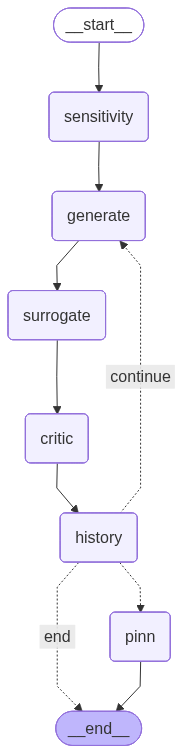
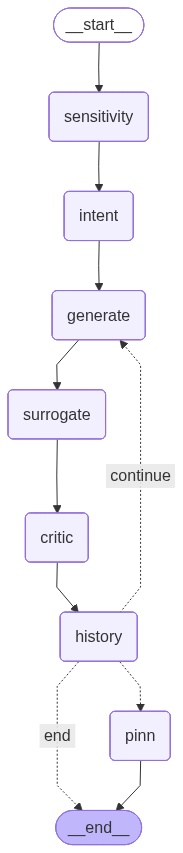
added new agents

diff --git a/NEW_PINN_LLM_SUR/LLM_epiparam_generator/agents/DeterministicCriticAgent.py b/NEW_PINN_LLM_SUR/LLM_epiparam_generator/agents/DeterministicCriticAgent.py
@@ -25,6 +25,8 @@ class DeterministicCriticAgent:
         log_format: str = "json",
         position_threshold: float = 0.0,
         height_threshold_relative: float = 0.0,
+        position_tolerance: float = 5.0,
+        height_tolerance_relative: float = 0.05,
     ):
         self.llm_client = llm if isinstance(llm, BaseLLMClient) else None
         self.llm = llm
@@ -40,6 +42,8 @@ class DeterministicCriticAgent:
         
         self.intent_parser = PydanticOutputParser(pydantic_object=ExpertIntent)
         self.intent_prompt = self._create_intent_prompt()
+        self.position_tolerance = position_tolerance
+        self.height_tolerance_relative = height_tolerance_relative
     
     def _create_intent_prompt(self) -> ChatPromptTemplate:
         """Universal prompt: extract expected peak change from ANY comment."""
@@ -89,8 +93,13 @@ Return ONLY valid JSON."""),
             ok = change < 0 and is_significant
             desc = f"moved earlier: {baseline:.1f} → {new:.1f}" if ok else f"expected earlier, but moved {new:.1f}"
         else:  # unchanged
-            ok = not is_significant
-            desc = f"remained stable: {baseline:.1f} → {new:.1f}" if ok else f"changed unexpectedly: {baseline:.1f} → {new:.1f}"
+            # ✅ Толерантность: ±position_tolerance дней считается "unchanged"
+            within_tolerance = abs(change) <= self.position_tolerance
+            ok = within_tolerance
+            if within_tolerance:
+                desc = f"remained stable: {baseline:.1f} → {new:.1f} (Δ={change:+.1f} within ±{self.position_tolerance})"
+            else:
+                desc = f"changed unexpectedly: {baseline:.1f} → {new:.1f} (Δ={change:+.1f} > ±{self.position_tolerance})"
         
         return {"ok": ok, "description": desc, "change": change, "is_significant": is_significant}
     
@@ -110,8 +119,13 @@ Return ONLY valid JSON."""),
             ok = change < 0 and is_significant
             desc = f"decreased: {baseline:.0f} → {new:.0f}" if ok else f"expected lower, but got {new:.0f}"
         else:  # unchanged
-            ok = not is_significant
-            desc = f"remained stable: {baseline:.0f} → {new:.0f}" if ok else f"changed unexpectedly: {baseline:.0f} → {new:.0f}"
+            # ✅ Толерантность: ±height_tolerance_relative считается "unchanged"
+            within_tolerance = relative_change <= self.height_tolerance_relative
+            ok = within_tolerance
+            if within_tolerance:
+                desc = f"remained stable: {baseline:.0f} → {new:.0f} ({relative_change*100:.1f}% within ±{self.height_tolerance_relative*100:.0f}%)"
+            else:
+                desc = f"changed unexpectedly: {baseline:.0f} → {new:.0f} ({relative_change*100:.1f}% > ±{self.height_tolerance_relative*100:.0f}%)"
         
         return {"ok": ok, "description": desc, "change": change, "is_significant": is_significant}
     
@@ -200,7 +214,9 @@ Return ONLY valid JSON."""),
         baseline_episode: Episode,
         new_params: Dict,
         new_results: Dict,
-        expert_comment: str
+        expert_comment: str,
+        position_expected: str = None,    
+        height_expected: str = None       
     ) -> Episode:
         print("=" * 60)
         print("🔍 CRITIC AGENT")
@@ -215,11 +231,17 @@ Return ONLY valid JSON."""),
         print(f"📊 New:      peak={new_peak:.1f}, height={new_height:.0f}")
         print(f"💬 Expert:   {expert_comment}")
         
-        # Парсим ожидания
-        print("\n🔍 Analyzing expected peak change...")
-        intent = self._parse_intent(expert_comment)
-        pos_exp = intent["position_expected"]
-        height_exp = intent["height_expected"]
+        # ✅ Используем переданные ожидания, если есть; иначе парсим
+        if position_expected is not None and height_expected is not None:
+            pos_exp = position_expected
+            height_exp = height_expected
+            print(f"\n📍 Using pre-parsed expectations (from IntentParser):")
+        else:
+            print("\n🔍 Analyzing expected peak change...")
+            intent = self._parse_intent(expert_comment)
+            pos_exp = intent["position_expected"]
+            height_exp = intent["height_expected"]
+        
         print(f"   Expected position: {pos_exp}")
         print(f"   Expected height:   {height_exp}")
         
@@ -267,11 +289,18 @@ Return ONLY valid JSON."""),
             if baseline_episode is None:
                 raise ValueError("No baseline episode")
         
+        # ✅ Берем готовые ожидания из state (уже распарсены IntentParser)
+        position_expected = state.get('expected_position', 'unchanged')
+        height_expected = state.get('expected_height', 'unchanged')
+        
+        # ✅ Передаем их в critique
         episode = self.critique(
             baseline_episode=baseline_episode,
             new_params=state.get('generated_params'),
             new_results=state.get('surrogate_results'),
-            expert_comment=state.get('expert_comment')
+            expert_comment=state.get('expert_comment'),
+            position_expected=position_expected,    # ✅ новый параметр
+            height_expected=height_expected         # ✅ новый параметр
         )
         
         state['critic_decision'] = 'accept' if episode.accepted else 'reject'

diff --git a/NEW_PINN_LLM_SUR/LLM_epiparam_generator/main_test.py b/NEW_PINN_LLM_SUR/LLM_epiparam_generator/main_test.py
@@ -20,6 +20,7 @@ import config
 from formats.data_formats import PipelineState
 from agents.EpiParamGeneratorAgent import LLMEpiParamGenerator
 from agents.DeterministicCriticAgent import DeterministicCriticAgent
+from agents.IntentParserAgent import IntentParserAgent
 
 from typing import Dict, Optional
 from agents.BaseLLMClient import BaseLLMClient  
@@ -539,14 +540,18 @@ class OptimizationPipeline:
         # Create agents
         llm_for_agents = self._get_llm_for_agents()
 
+        self.intent_parser = IntentParserAgent(llm_for_agents)
         self.generator = LLMEpiParamGenerator(llm_for_agents, enable_logging=True, log_format="json")
         self.critic = DeterministicCriticAgent(
-                                        llm_for_agents, 
-                                        enable_logging=True, 
-                                        log_format="json",
-                                        max_retries=3,
-                                        # decision_mode=critic_mode
-                                    )
+                                                llm_for_agents,
+                                                enable_logging=True,
+                                                log_format="json",
+                                                max_retries=3,
+                                                position_threshold=5.0,
+                                                height_threshold_relative=0.10,
+                                                position_tolerance=250.0,           # ±5 дней для "unchanged"
+                                                height_tolerance_relative=0.80    # ±5% для "unchanged"
+                                            )
         
         # Pass both generator and critic to history node
         self.history_node = HistoryNode(generator=self.generator, critic=self.critic)
@@ -600,8 +605,10 @@ class OptimizationPipeline:
 
         sensitivity_node = SensitivityNode(self.surrogate_agent)
         
+        
         # Add nodes
         workflow.add_node("sensitivity", sensitivity_node)
+        workflow.add_node("intent", self.intent_parser)
         workflow.add_node("generate", self.generator.generate)
         workflow.add_node("surrogate", self.surrogate_node)
         workflow.add_node("critic", self.critic)
@@ -612,7 +619,8 @@ class OptimizationPipeline:
         
         # Add edges 
         workflow.set_entry_point("sensitivity")
-        workflow.add_edge("sensitivity", "generate")
+        workflow.add_edge("sensitivity", "intent")
+        workflow.add_edge("intent", "generate")
         workflow.add_edge("generate", "surrogate")
         workflow.add_edge("surrogate", "critic")
         workflow.add_edge("critic", "history")
@@ -1348,7 +1356,7 @@ def main():
         'I': covid_cases['I'].tolist(),
         'R': covid_cases['R'].tolist(),
         'D': covid_cases['D'].tolist(),
-        'train_size': 180,
+        'train_size': 120,
     }
     
     # ============================================================
@@ -1409,10 +1417,12 @@ def main():
     baseline_gamma = 0.034483
     baseline_mu = 0.005296
     
-    # expert_comment = "Need higher peak"
+    expert_comment = "Need later peak"
     # expert_comment = "Mask mandate will be introduced"
-    expert_comment = "The peak should be 10,000 higher and later"
-    # expert_comment = "First move the peak LATER"
+    # expert_comment = "The peak should be higher and later"
+    # expert_comment = "First move the peak LATER. Hieght is unimportant"
+    # expert_comment =  "The infection rate graph shows an excessively sharp decline after the peak – in reality, the epidemic's 'tail' should be longer."
+    # expert_comment = "Quarantine measures were introduced late – the peak should shift by 7-10 days."
 
     print("\n" + "-" * 60)
     print("📌 STEP 6: Test parameters")
@@ -1433,7 +1443,7 @@ def main():
         gamma=baseline_gamma,
         mu=baseline_mu,
         expert_comment=expert_comment,
-        max_iterations=10,
+        max_iterations=100,
         population=10000,
         S0=9900,
         I0=100,

diff --git a/NEW_PINN_LLM_SUR/LLM_epiparam_generator/agents/IntentParserAgent.py b/NEW_PINN_LLM_SUR/LLM_epiparam_generator/agents/IntentParserAgent.py
@@ -1,0 +1,93 @@
+# agents/IntentParserAgent.py
+
+from langchain_core.prompts import ChatPromptTemplate
+from langchain_core.output_parsers import PydanticOutputParser
+from formats.data_formats import PipelineState, ExpertIntent
+import json
+import re
+
+class IntentParserAgent:
+    """
+    Parses expert comment ONCE using LLM only.
+    No keyword fallbacks — pure LLM reasoning.
+    """
+    
+    def __init__(self, llm):
+        self.llm = llm
+        self.parser = PydanticOutputParser(pydantic_object=ExpertIntent)
+        self.prompt = self._create_prompt()
+    
+    def _create_prompt(self) -> ChatPromptTemplate:
+        return ChatPromptTemplate.from_messages([
+            ("system", """You are an epidemiologist. Analyze the expert comment and determine how the infected (I) peak should change.
+
+    **Think causally about interventions:**
+    - If a measure reduces transmission (mask, lockdown, distancing) → peak LATER and LOWER
+    - If a measure increases transmission (reopen, lift) → peak EARLIER and HIGHER
+    - If a measure only affects recovery/treatment → height may change, position UNCHANGED
+
+    **CRITICAL: Restrictive measures ALWAYS change the peak.**
+    - "mask", "lockdown", "restrictions", "distancing" → cares_about_position: true, position_direction: "later", cares_about_height: true, height_direction: "lower"
+
+    **Output JSON with these EXACT fields:**
+    - cares_about_position: boolean
+    - position_direction: "later", "earlier", or "any"
+    - cares_about_height: boolean
+    - height_direction: "higher", "lower", or "any"
+    - primary_metric: "position", "height", or "both"
+    - reasoning: brief causal explanation
+
+    **Example for "Mask mandate will be introduced":**
+    {{
+    "cares_about_position": true,
+    "position_direction": "later",
+    "cares_about_height": true,
+    "height_direction": "lower",
+    "primary_metric": "height",
+    "reasoning": "Mask mandate reduces transmission, delaying and lowering the peak."
+    }}
+
+    {format_instructions}
+
+    Return ONLY valid JSON. No other text."""),
+            ("human", "Expert comment: {expert_comment}")
+        ]).partial(format_instructions=self.parser.get_format_instructions())
+    
+    def parse(self, comment: str) -> ExpertIntent:
+        """Parse expert comment using LLM only."""
+        if not comment:
+            return ExpertIntent(
+                cares_about_position=False,
+                position_direction="any",
+                cares_about_height=False,
+                height_direction="any",
+                primary_metric="both",
+                reasoning="No comment provided"
+            )
+        
+        chain = self.prompt | self.llm | self.parser
+        result = chain.invoke({"expert_comment": comment})
+        return result
+    
+    def __call__(self, state: PipelineState) -> PipelineState:
+        """Parse intent and save to state."""
+        print("=" * 60)
+        print("🎯 INTENT PARSER AGENT (LLM only)")
+        print("=" * 60)
+        
+        comment = state.get('expert_comment', '')
+        print(f"💬 Expert: {comment}")
+        
+        intent = self.parse(comment)
+        
+        state['expected_position'] = intent.position_direction if intent.cares_about_position else "unchanged"
+        state['expected_height'] = intent.height_direction if intent.cares_about_height else "unchanged"
+        state['expert_intent'] = intent
+        
+        print(f"   cares_about_position: {intent.cares_about_position} → {intent.position_direction}")
+        print(f"   cares_about_height:   {intent.cares_about_height} → {intent.height_direction}")
+        print(f"   primary_metric: {intent.primary_metric}")
+        print(f"   reasoning: {intent.reasoning}")
+            
+        
+        return state

diff --git a/NEW_PINN_LLM_SUR/LLM_epiparam_generator/agents/EpiParamGeneratorAgent.py b/NEW_PINN_LLM_SUR/LLM_epiparam_generator/agents/EpiParamGeneratorAgent.py
@@ -143,8 +143,24 @@ Return ONLY valid JSON in the exact format specified. Do not include any additio
 
             ("human", """Please generate new epidemiological parameters for the SIRD model based on the following information:
 
-## 0. Parameter Sensitivity Map (CRITICAL - read first!)
+## 🎯 TARGET PEAK DIRECTION (from expert comment)
+Expected position change: **{expected_position}**
+Expected height change: **{expected_height}**
+
+
+## 0. Parameter Sensitivity Map — YOUR CHEAT SHEET
 {sensitivity_map}
+
+**How to use the Sensitivity Map:**
+- This map shows EXACTLY how changing each parameter affects the peak.
+- It was computed SPECIFICALLY for your current baseline parameters.
+- Use it to make INFORMED, PRECISE adjustments — NOT random guesses.
+
+**Example of using the map:**
+- If expected_position = "later" → look at the map: which parameter change gives POSITIVE Δ day?
+- If expected_height = "higher" → look at the map: which parameter change gives POSITIVE Δ height?
+- Combine adjustments proportionally to achieve both goals.
+
 
 ## 1. Task Configuration
 {task_config}
@@ -378,12 +394,20 @@ Return only the valid JSON object without any additional text.""")
         
         # ✅ Экспертный комментарий всегда есть в state
         expert_comment = state.get('expert_comment')
+
         
         # Проверяем наличие экспертного комментария
         if expert_comment is None or expert_comment.strip() == "":
             raise ValueError("❌ Expert comment is required but not provided in state!")
         
+        expected_position = state.get('expected_position', 'unchanged')
+        expected_height = state.get('expected_height', 'unchanged')
+        direction_hint = state.get('direction_hint', '')
+        
         print(f"📝 Expert comment: {expert_comment}")
+        print(f"🎯 Expected: position={expected_position}, height={expected_height}")
+        if direction_hint:
+            print(f"💡 Hint: {direction_hint}")
         
         if not current_episode:
             print("❌ No current episode in state")
@@ -400,12 +424,12 @@ Return only the valid JSON object without any additional text.""")
         # current_gamma = current_episode.gamma
         # current_mu = current_episode.mu
         
-        beta_min = current_beta - 0.001
-        beta_max = current_beta + 0.001
-        gamma_min = current_gamma - 0.001
-        gamma_max = current_gamma + 0.001
-        mu_min = current_mu - 0.0001
-        mu_max = current_mu + 0.0001
+        beta_min = current_beta - 0.005
+        beta_max = current_beta + 0.005
+        gamma_min = current_gamma - 0.0005
+        gamma_max = current_gamma + 0.0005
+        mu_min = current_mu - 0.00005
+        mu_max = current_mu + 0.00005
 
         sensitivity_map = state.get('sensitivity_map', {})
         sensitivity_text = self._format_sensitivity_map(sensitivity_map)
@@ -427,7 +451,10 @@ Return only the valid JSON object without any additional text.""")
             "gamma_max": gamma_max,
             "mu_min": mu_min,
             "mu_max": mu_max,
-            "sensitivity_map": sensitivity_text
+            "sensitivity_map": sensitivity_text,
+            "expected_position": expected_position,   
+            "expected_height": expected_height,        
+            "direction_hint": direction_hint,         
         }
         
         # Create chain

diff --git a/NEW_PINN_LLM_SUR/LLM_epiparam_generator/formats/data_formats.py b/NEW_PINN_LLM_SUR/LLM_epiparam_generator/formats/data_formats.py
@@ -143,6 +143,9 @@ class PipelineState(TypedDict):
     # Current state
     current_episode: Optional[Episode] 
     expert_comment: Optional[str]
+
+    expected_position: Optional[str]   # "later", "earlier", "unchanged"
+    expected_height: Optional[str]     # "higher", "lower", "unchanged"
     
     # History
     history: List[Episode]
